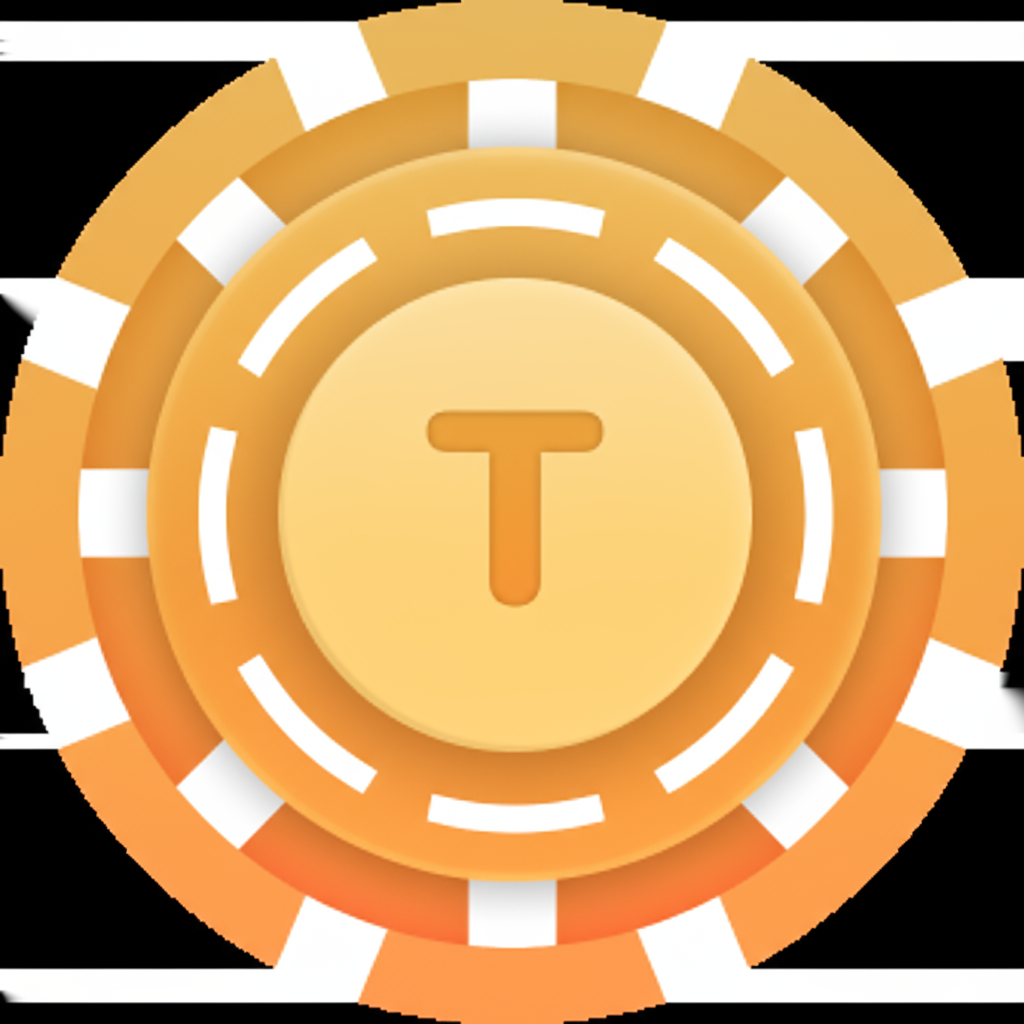
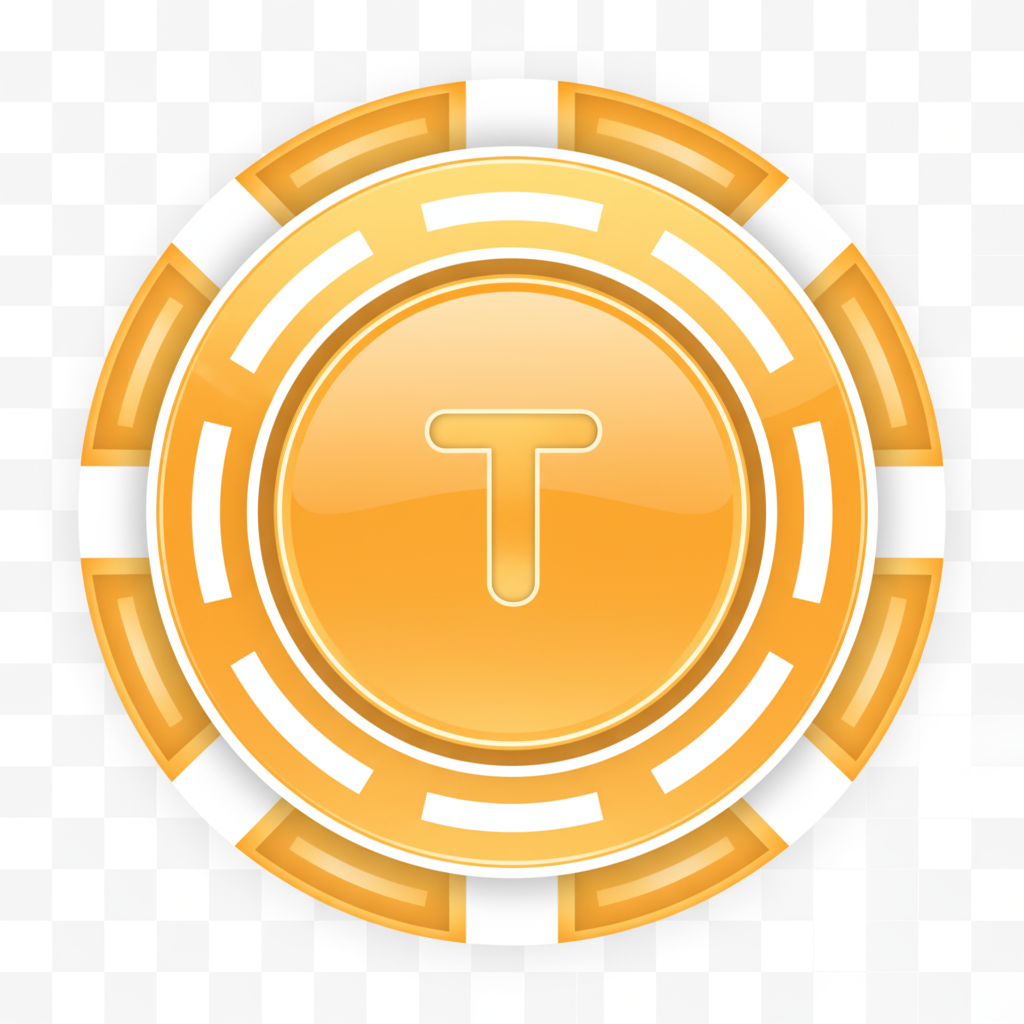
Refactor coinflip images and history
Add last 100 coinflips to the history view using custom coin images. Redesign the tails coin image and ensure the heads coin image is resized and cut to match the tails image dimensions for consistency.

diff --git a/src/pages/Coinflip.tsx b/src/pages/Coinflip.tsx
@@ -56,12 +56,14 @@ const Coinflip = () => {
   const [user, setUser] = useState<any>(null);
   const [inventoryOpen, setInventoryOpen] = useState(false);
   const [flipAnimation, setFlipAnimation] = useState<FlipAnimation | null>(null);
+  const [recentFlips, setRecentFlips] = useState<Array<'heads' | 'tails'>>([]);
   const { toast } = useToast();
   const navigate = useNavigate();
 
   useEffect(() => {
     checkUser();
     fetchGames();
+    fetchRecentFlips();
     
     const gamesChannel = supabase
       .channel('coinflip-games-changes')
@@ -166,6 +168,24 @@ const Coinflip = () => {
       return;
     }
     setUser(user);
+  };
+
+  const fetchRecentFlips = async () => {
+    const { data } = await supabase
+      .from("transactions")
+      .select("description")
+      .eq("game_type", "coinflip")
+      .in("type", ["win", "loss"])
+      .order("created_at", { ascending: false })
+      .limit(100);
+
+    if (data) {
+      const flips = data.map(t => {
+        const match = t.description?.match(/\((\w+)\)/);
+        return match ? match[1] as 'heads' | 'tails' : null;
+      }).filter((f): f is 'heads' | 'tails' => f !== null);
+      setRecentFlips(flips);
+    }
   };
 
   const fetchGames = async () => {
@@ -484,6 +504,9 @@ const Coinflip = () => {
     // Remove the game from local list immediately
     setGames((prev) => prev.filter((g) => g.id !== game.id));
 
+    // Refresh recent flips
+    fetchRecentFlips();
+
     setSelectedItems([]);
     
     // Clear flip animation after showing result
@@ -522,6 +545,28 @@ const Coinflip = () => {
                 <p className="text-muted-foreground">50/50 chance to double your items</p>
               </div>
             </div>
+
+            {/* Last 100 Flips */}
+            {recentFlips.length > 0 && (
+              <Card className="p-4">
+                <h3 className="text-sm font-semibold mb-3 text-muted-foreground">Last 100 Flips</h3>
+                <div className="flex gap-1 overflow-x-auto scrollbar-hide">
+                  {recentFlips.map((flip, idx) => (
+                    <div 
+                      key={idx} 
+                      className="w-6 h-6 rounded-full overflow-hidden bg-transparent flex-shrink-0"
+                      title={flip}
+                    >
+                      <img 
+                        src={flip === 'heads' ? coinHeads : coinTails} 
+                        alt={flip}
+                        className="w-full h-full object-contain"
+                      />
+                    </div>
+                  ))}
+                </div>
+              </Card>
+            )}
 
             {/* Create Game Section */}
             <Card className="p-6">
